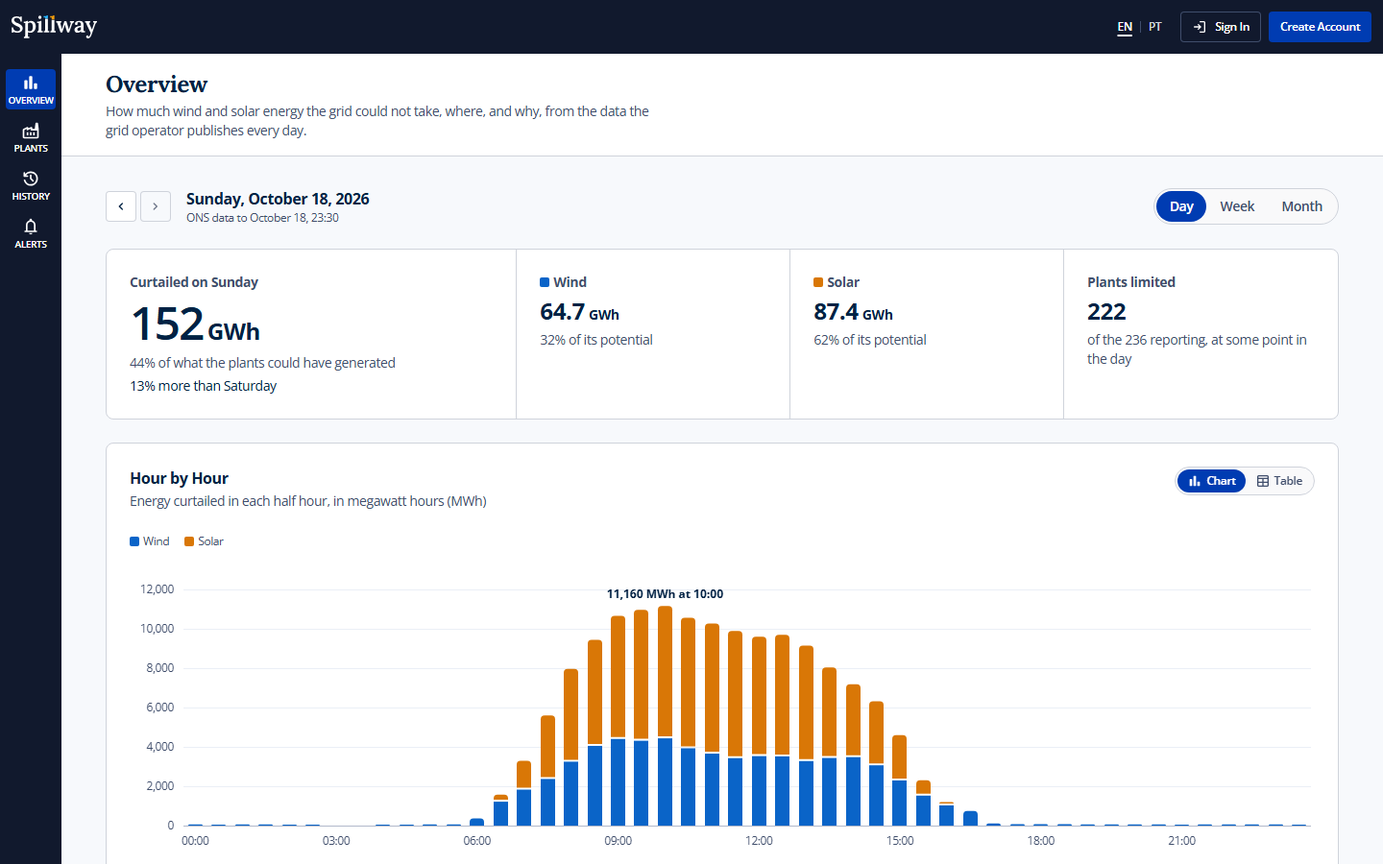
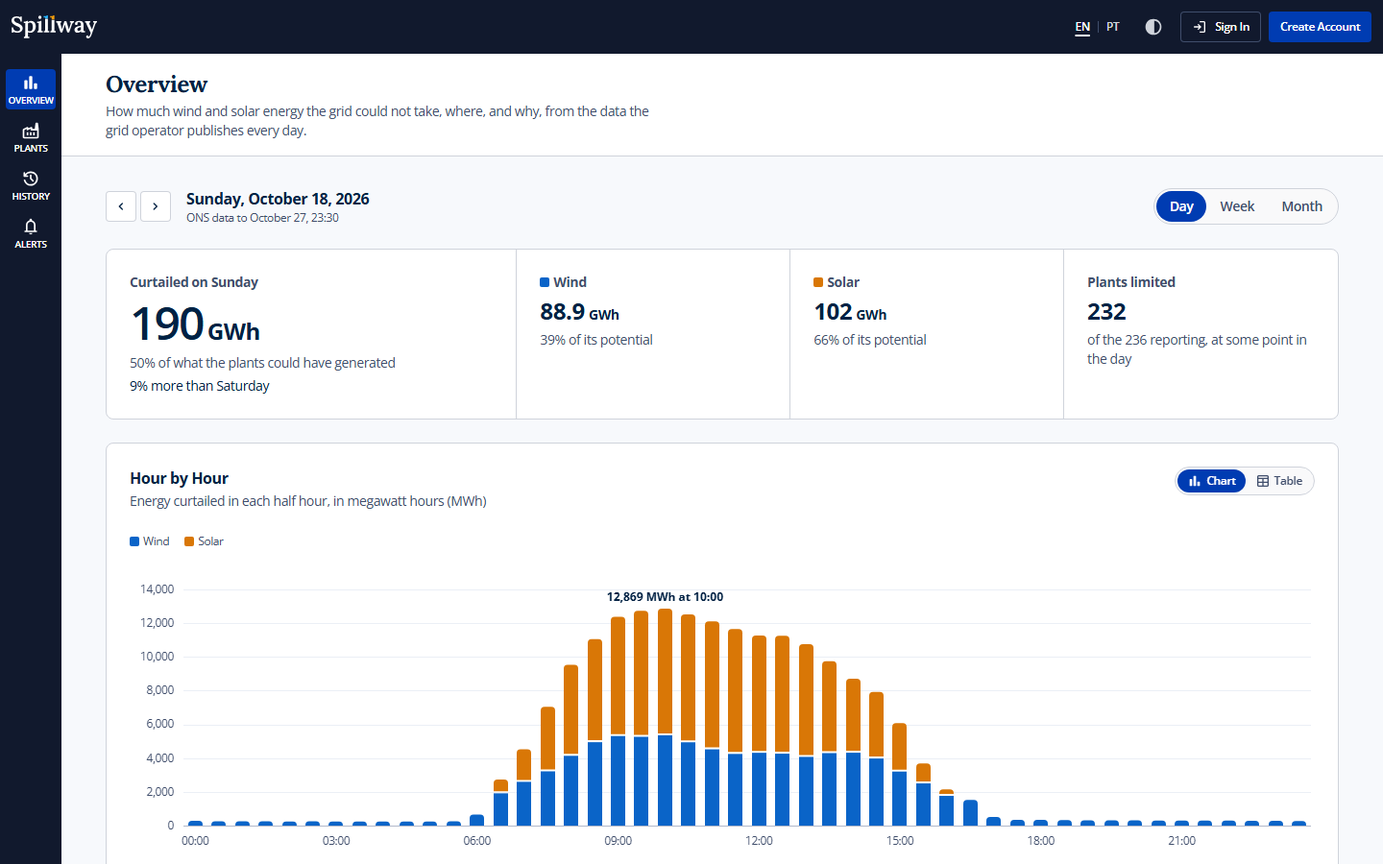
docs: record the dark theme and show it in the readme

diff --git a/e2e/screenshots.ts b/e2e/screenshots.ts
@@ -6,9 +6,11 @@ import { type Browser, chromium, expect, type Page } from '@playwright/test';
 /*
  * The README's screens, taken from the stack `docker compose up --wait --build`
  * started, once the sync has loaded the ONS's files: `pnpm run screenshots`,
- * or `pnpm run screenshots <name>…` for some. The data pages show the latest
- * day published; the alert pages are taken as Ana, an account of the script's
- * own at example.com, made the first time and given the same five alerts.
+ * or `pnpm run screenshots <name>…` for some. The data pages show DAY, its
+ * week or its month, and the history and the alerts the latest published; the
+ * alert pages are taken as Ana, an account of the script's own at example.com,
+ * made the first time and given the same five alerts. A screen in the dark
+ * theme asks for it as a device would, through System.
  */
 
 const base = process.env['E2E_BASE_URL'] ?? 'http://localhost:8090';
@@ -17,6 +19,14 @@ const out = fileURLToPath(new URL('../docs/screenshots/', import.meta.url));
 const LAPTOP = { width: 1440, height: 900 };
 const PHONE = { width: 390, height: 844 };
 const ANA = { email: 'ana@example.com', password: 'correct horse battery staple' };
+
+/**
+ * A Sunday when half of what the plants could have generated was curtailed: a
+ * full chart, and the same one, with the figures the README's descriptions
+ * give, each time the screens are taken, its month's once the month is all
+ * published. Only a revision of the ONS's file moves them.
+ */
+const DAY = '2026-10-18';
 
 /** Where and what the grid curtails most, at thresholds that some days pass and most do not. */
 const ALERTS = [
@@ -32,11 +42,12 @@ const ALERTS = [
   { name: 'North wind', source: 'Wind', subsystem: 'North', threshold: '1500' },
 ] as const;
 
-async function open(browser: Browser, viewport = LAPTOP) {
+async function open(browser: Browser, viewport = LAPTOP, colorScheme: 'light' | 'dark' = 'light') {
   const context = await browser.newContext({
     baseURL: base,
     viewport,
     locale: 'en-US',
+    colorScheme,
     deviceScaleFactor: 1,
   });
   return { context, page: await context.newPage() };
@@ -94,6 +105,18 @@ async function alerts(page: Page, wanted: 'five' | 'none') {
   await page.reload(); // without the toast
 }
 
+/** The month by subsystem, a row pointed at so the map picks its region out. */
+async function where(page: Page) {
+  await page.goto(`/?period=month&date=${DAY}`);
+  const card = page.getByRole('region', { name: 'By Subsystem' });
+  // The card's top just under the sticky header.
+  await card.evaluate((el) => {
+    window.scrollBy(0, el.getBoundingClientRect().top - 80);
+  });
+  await settle(page);
+  await card.getByRole('link', { name: 'Southeast and Centre-West' }).hover();
+}
+
 /** Until the page holds still: fonts in, charts measured, animations done, the pointer away. */
 async function settle(page: Page, pointer = true) {
   if (pointer) {
@@ -109,19 +132,19 @@ async function settle(page: Page, pointer = true) {
 const screens: Record<string, (browser: Browser) => Promise<Page>> = {
   async overview(browser) {
     const { page } = await open(browser);
-    await page.goto('/');
+    await page.goto(`/?date=${DAY}`);
     return page;
   },
 
   async 'overview-month'(browser) {
     const { page } = await open(browser);
-    await page.goto('/?period=month');
+    await page.goto(`/?period=month&date=${DAY}`);
     return page;
   },
 
   async 'overview-tooltip'(browser) {
     const { page } = await open(browser);
-    await page.goto('/');
+    await page.goto(`/?date=${DAY}`);
     const chart = page.getByRole('img', { name: /^Energy curtailed in each half hour/ });
     await chart.scrollIntoViewIfNeeded();
     await settle(page);
@@ -134,33 +157,45 @@ const screens: Record<string, (browser: Browser) => Promise<Page>> = {
 
   async 'overview-where'(browser) {
     const { page } = await open(browser);
-    await page.goto('/?period=month');
-    const card = page.getByRole('region', { name: 'By Subsystem' });
-    // The card's top just under the sticky header.
-    await card.evaluate((el) => {
-      window.scrollBy(0, el.getBoundingClientRect().top - 80);
-    });
-    await settle(page);
-    // A row pointed at, so the map picks its region out.
-    await card.getByRole('link', { name: 'Southeast and Centre-West' }).hover();
+    await where(page);
     return page;
   },
 
   async 'overview-pt'(browser) {
     const { page } = await open(browser);
-    await page.goto('/pt-br');
+    await page.goto(`/pt-br?date=${DAY}`);
+    return page;
+  },
+
+  async 'overview-dark'(browser) {
+    const { page } = await open(browser, LAPTOP, 'dark');
+    await page.goto(`/?date=${DAY}`);
+    return page;
+  },
+
+  async 'overview-where-dark'(browser) {
+    const { page } = await open(browser, LAPTOP, 'dark');
+    await where(page);
+    return page;
+  },
+
+  async 'theme-menu'(browser) {
+    const { page } = await open(browser);
+    await page.goto(`/?date=${DAY}`);
+    await page.getByRole('button', { name: 'Theme: System' }).click();
+    await expect(page.getByRole('group', { name: 'Theme' })).toBeVisible();
     return page;
   },
 
   async 'overview-phone'(browser) {
     const { page } = await open(browser, PHONE);
-    await page.goto('/');
+    await page.goto(`/?date=${DAY}`);
     return page;
   },
 
   async plants(browser) {
     const { page } = await open(browser);
-    await page.goto('/plants?period=week');
+    await page.goto(`/plants?period=week&date=${DAY}`);
     return page;
   },
 
@@ -248,7 +283,10 @@ try {
     if (names.length > 0 && !names.includes(name)) continue;
     const page = await take(browser);
     // The tooltip and the map shots keep the pointer where they put it.
-    await settle(page, !['overview-tooltip', 'overview-where'].includes(name));
+    await settle(
+      page,
+      !['overview-tooltip', 'overview-where', 'overview-where-dark'].includes(name),
+    );
     await page.screenshot({ path: `${out}${name}.png` });
     await page.context().close();
     console.log(`docs/screenshots/${name}.png`);

diff --git a/README.md b/README.md
@@ -2,22 +2,22 @@
 
 Alerts on the wind and solar energy Brazil's grid operator keeps from being generated, built for [the ONS's open curtailment data](https://dados.ons.org.br).
 
-Spillway reads the ONS's files every hour and shows what was curtailed: a day, a week or a month against the one before, the plants that lost the most, and every month since the data begins. An account keeps up to twenty alerts, each a daily limit on one source in one subsystem: tell me when more than 150,000 MWh of Northeast wind goes unused in a day. Before an alert is saved, a chart shows the days of the last thirty it would have fired on. Every page is in English and, under `/pt-br`, in Brazilian Portuguese.
+Spillway reads the ONS's files every hour and shows what was curtailed: a day, a week or a month against the one before, the plants that lost the most, and every month since the data begins. An account keeps up to twenty alerts, each a daily limit on one source in one subsystem: tell me when more than 150,000 MWh of Northeast wind goes unused in a day. Before an alert is saved, a chart shows the days of the last thirty it would have fired on. Every page is in English and, under `/pt-br`, in Brazilian Portuguese, in a light theme or a dark one: the device's, unless the reader picks.
 
 SvelteKit 3 and Svelte 5 in front, a Go 1.27 API behind it, Postgres 18 behind that, and an OpenAPI 3.1 contract between the two servers that both are generated from.
 
-![The overview of Sunday, October 18, 2026: 152 GWh curtailed, 44% of what the plants could have generated, 64.7 GWh of wind and 87.4 GWh of solar, and a column per half hour, wind and solar stacked, peaking at 11,160 MWh at 10:00, with a switch to see it as a table](docs/screenshots/overview.png)
+![The overview of Sunday, October 18, 2026: 190 GWh curtailed, 50% of what the plants could have generated, 88.9 GWh of wind and 102 GWh of solar, and a column per half hour, wind and solar stacked, peaking at 12,869 MWh at 10:00, with a switch to see it as a table](docs/screenshots/overview.png)
 
 <details>
 <summary>More screens</summary>
 
 **A half hour, pointed at**
 
-![The same day's chart with a tooltip on 12:30 to 13:00: 3,518 MWh of wind, 6,177 MWh of solar, 9,696 MWh in all](docs/screenshots/overview-tooltip.png)
+![The same day's chart with a tooltip on 12:30 to 13:00: 4,262 MWh of wind, 6,997 MWh of solar, 11,259 MWh in all](docs/screenshots/overview-tooltip.png)
 
 **A month so far**
 
-![October 2026 up to the 18th: 2,524 GWh curtailed, 17% less than September 1 to 18, a column per day, and the days to come marked as not published yet](docs/screenshots/overview-month.png)
+![October 2026 up to the 27th: 3,656 GWh curtailed, 25% less than September 1 to 27, a column per day, and the days to come marked as not published yet](docs/screenshots/overview-month.png)
 
 **Where, and why**
 
@@ -37,7 +37,7 @@ SvelteKit 3 and Svelte 5 in front, a Go 1.27 API behind it, Postgres 18 behind t
 
 **A new alert, against the last 30 days**
 
-![The new alert form for Northeast wind at 150,000 MWh, beside a column per day of the last 30 with a dashed line at the threshold, the days over it in blue, and a line saying it would have fired on 5 of them](docs/screenshots/alert-preview.png)
+![The new alert form for Northeast wind at 150,000 MWh, beside a column per day of the last 30 with a dashed line at the threshold, the days over it in blue, and a line saying it would have fired on 2 of them](docs/screenshots/alert-preview.png)
 
 **A form refused, with or without JavaScript**
 
@@ -59,13 +59,23 @@ SvelteKit 3 and Svelte 5 in front, a Go 1.27 API behind it, Postgres 18 behind t
 
 **In Portuguese**
 
-![The overview in Portuguese, under /pt-br: Domingo, 18 de outubro de 2026, 152 GWh curtailed, 64,7 GWh of wind and 87,4 GWh of solar with a decimal comma, the navigation as Visão geral, Usinas, Histórico and Alertas, and EN | PT in the header with PT underlined](docs/screenshots/overview-pt.png)
+![The overview in Portuguese, under /pt-br: Domingo, 18 de outubro de 2026, 190 GWh curtailed, 88,9 GWh of wind and 102 GWh of solar with a decimal comma, the navigation as Visão geral, Usinas, Histórico and Alertas, and EN | PT in the header with PT underlined](docs/screenshots/overview-pt.png)
+
+**In the dark**
+
+![The same day in the dark theme: the navy of the header deepened, the canvas a step lighter and the cards a step lighter again, and wind and solar a step brighter, each clearing 3:1 on its card](docs/screenshots/overview-dark.png)
+
+![The month by subsystem in the dark theme, where the map shades the most curtailed lightest, so the Northeast stands out from the dark card as it does darkest on the light one](docs/screenshots/overview-where-dark.png)
+
+**The theme, picked in the header**
+
+![The theme menu open under its button, next to EN | PT: Light, Dark and System, each beside a scrap of the app in its colours, System chosen and saying it gives the light theme on this device](docs/screenshots/theme-menu.png)
 
 **A sign-in refused**
 
 ![The sign-in card saying the email address or password is wrong, inside the card above the fields, the address kept, the password cleared beside its show button, and the way to create an account centred under the card](docs/screenshots/sign-in-refused.png)
 
-Regenerate with `pnpm run screenshots`, against the stack `docker compose up --wait --build` started, or with `pnpm run screenshots <name>` for one screen. They show the latest day the ONS has published, and the alerts are taken as an account of the script's own, `ana@example.com`, whose alerts it replaces each time.
+Regenerate with `pnpm run screenshots`, against the stack `docker compose up --wait --build` started, or with `pnpm run screenshots <name>` for one screen. They show October 18, 2026, its week and its month, so the figures above stay true each time they are taken, the month's once the ONS has published all of October, and the history and the alerts as of the latest day published; the alerts are taken as an account of the script's own, `ana@example.com`, whose alerts it replaces each time.
 
 </details>
 
@@ -129,7 +139,8 @@ The ONS publishes it on its open data portal under CC-BY, plant by plant in half
 - **Twenty alerts means twenty.** Creating one locks the account's row, counts and inserts in one transaction, and a test fires forty creates at once at a real Postgres to prove only twenty land ([ADR 0008](docs/adr/0008-the-alert-limit-is-held-by-the-database.md)).
 - **Every form works without JavaScript.** Each is a plain form with a server action, enhanced when the script runs; a refused form comes back with what was typed, and an accepted one redirects, so a reload never posts it twice ([ADR 0010](docs/adr/0010-every-form-works-without-javascript.md)).
 - **Account forms that check as you go.** Sign-in and sign-up share one form: the browser checks a field when it is left, with the rules the contract already put on it, and a form it can tell is wrong is not sent; focus goes to the first field to fix, and a password can be shown ([ADR 0027](docs/adr/0027-sign-in-and-sign-up-check-each-field-as-it-is-left.md)).
-- **A dense look, accessible first.** Dark chrome, white panels, compact controls and tables, from tokens in Tailwind 4; every label visible, native selects and radios, one focus ring, an error summary that takes focus ([ADR 0009](docs/adr/0009-a-dense-dashboard-look-accessibility-first.md)), and toasts that leave on their own but never while pointed at or focused ([ADR 0023](docs/adr/0023-toasts-under-the-page-header-leave-on-their-own.md)).
+- **A dense look, accessible first.** Dark chrome, white panels, or navy ones in the dark, compact controls and tables, from tokens in Tailwind 4; every label visible, native selects and radios, one focus ring, an error summary that takes focus ([ADR 0009](docs/adr/0009-a-dense-dashboard-look-accessibility-first.md)), and toasts that leave on their own but never while pointed at or focused ([ADR 0023](docs/adr/0023-toasts-under-the-page-header-leave-on-their-own.md)).
+- **Two themes, right from the first byte.** Each colour token holds its light and its dark value side by side, in `light-dark()`, so a theme is only the `color-scheme` the page declares, and a test fails when a component paints with a raw colour. The menu in the header keeps Light, Dark or System in a cookie the server reads, so a page arrives in its theme with no script to prevent a flash, and the menu works without JavaScript too ([ADR 0030](docs/adr/0030-a-dark-theme-kept-in-a-cookie-the-server-reads.md)).
 - **The ONS's files, synced on their own.** A second process from the same binary lists the ONS's bucket every hour, loads each new or revised month by its ETag, the latest first, and replaces it whole in one transaction. The pages read the sums it keeps, never the files ([ADR 0020](docs/adr/0020-the-ons-data-is-synced-by-a-process-of-its-own.md)).
 - **Firings read from the data.** An alert's firings are a query over the daily sums, not rows of their own, so a revised day revises them too ([ADR 0021](docs/adr/0021-firings-are-read-from-the-data.md)).
 - **Charts in our own SVG.** Columns, bars and lines are Svelte components on d3-scale, drawn on the server with no style attribute for the content security policy to refuse ([ADR 0022](docs/adr/0022-charts-drawn-in-our-own-svg.md)), and a switch in each card's header shows the chart's figures as a table in its place, with radio buttons and CSS, so it works without JavaScript ([ADR 0025](docs/adr/0025-a-chart-or-its-table-by-a-switch.md)).
@@ -153,7 +164,7 @@ go test -race ./...                                              # the API's uni
 go test -race -tags integration ./internal/adapter/postgres/...  # against a real Postgres 18
 ```
 
-The domain and the use cases are tested in memory, against fakes of their own interfaces, and the Postgres adapter against a real Postgres 18, forty creates at once for one account included, and a month loaded, read, revised and read again. The ONS adapter reads a Parquet file its test writes, from a test server that answers like the bucket. Vitest runs the components in Chromium. Playwright waits for the sync to load every month, then drives the whole stack as a visitor would: every state of every page audited by axe against WCAG 2.2 AA, no console error allowed, a content security policy report included, and every internal link followed.
+The domain and the use cases are tested in memory, against fakes of their own interfaces, and the Postgres adapter against a real Postgres 18, forty creates at once for one account included, and a month loaded, read, revised and read again. The ONS adapter reads a Parquet file its test writes, from a test server that answers like the bucket. Vitest runs the components in Chromium. Playwright waits for the sync to load every month, then drives the whole stack as a visitor would: every state of every page audited by axe against WCAG 2.2 AA, in the light theme and in the dark one, no console error allowed, a content security policy report included, and every internal link followed.
 
 CI runs the same, and golangci-lint with the layer rules, govulncheck, a check that generated code matches its sources, and oasdiff against the previous commit's contract. Then it builds the stack with compose and runs the browser checks against it. actionlint and zizmor check the workflow itself, for mistakes and for the ways a workflow leaks its token ([ADR 0029](docs/adr/0029-the-workflow-is-audited-too.md)).
 

diff --git a/docs/adr/0030-a-dark-theme-kept-in-a-cookie-the-server-reads.md b/docs/adr/0030-a-dark-theme-kept-in-a-cookie-the-server-reads.md
@@ -1,0 +1,37 @@
+# 30. A dark theme, kept in a cookie the server reads
+
+- Status: accepted, giving the look of [ADR 0009](0009-a-dense-dashboard-look-accessibility-first.md) a dark theme
+- Date: 2026-10-28
+
+## Context
+
+Spillway was light only: dark chrome around white panels (ADR 0009). Many of the people it is for set their devices to dark, at work and at night. A theme touches every colour, so it has to be cheap to keep right: a component painting a colour of its own would stay light in the dark, and nothing would say so. It also has to keep the app's other rules: every page rendered on the server, a content security policy that lets in no inline script, and every form working without JavaScript (ADR 0010).
+
+## Decision
+
+- **Every colour role holds both its colours, side by side, in `light-dark()`**, as `--color-surface-canvas: light-dark(cool-grey-25, cool-grey-500)` does. A theme is then only the `color-scheme` `<html>` declares: `light dark` follows the device, `light` or `dark` is a choice. The primitives keep one value each. A role that is the same in both themes, as what sits on the navy chrome is, is named in `src/tokens.spec.ts`, which fails on a role with one colour that is not on its list, and on a component that paints with a primitive or with a colour written out.
+- **The dark palette is the light one's navy, deepened**, as Larder's dark theme is: the chrome deepest, `#0a1020`, then the canvas, `#11192d`, then the cards, `#18223a`, each lighter as it comes nearer. Wind and solar go a step brighter, `#3f8ff0` and `#e08a1f`, to clear 3:1 on a dark card, and the map's steps turn round, so the most curtailed region is the lightest, as it is the darkest on white. Every text clears 4.5:1 on its ground, links `#5cc2ff`, errors `#f47070` and the grey of what is disabled, `#8890a3`, included, and axe checks each page in both themes.
+- **The choice is a cookie the server reads**, `spillway-theme`, holding `light` or `dark`; no cookie is System. A server hook writes `data-theme` on `<html>` before the page leaves, and the layout's `color-scheme` and `theme-color` follow, so a page is drawn in its theme from the first byte: no flash of the other one, and no inline script in the head to prevent it, which the content security policy would have to let in by its hash. Every page is rendered per request and none is cached; a cache put in front would have to vary by the cookie.
+- **Light, Dark or System, from a menu in the header**, beside EN | PT, as in Faultline. It is a native popover anchored to its button: it opens, closes on Escape or a click outside, and comes after its button in the tab order, all without a script. Each choice is a submit button of one form, which posts to `/theme`; its action sets the cookie, HTTP-only, for 400 days, and redirects back. Without JavaScript the page comes back in the theme picked. With it, `use:enhance` sends the same post and the redirect is not followed: the menu hands the theme to the root layout, which puts it on `<html>` at once, with every transition held for that frame, and puts back the one before if the post is refused or lost. The layout's is the one copy in the browser, so data loaded again, which brings the cookie another tab may have changed, moves `<html>`, the menu and the bar together.
+- **Each choice shows a scrap of the app in its colours**, and System says which theme the device gives now. That line is CSS, a media query, so it is right without a script and when the device changes; a screen reader hears that System follows the device.
+- **The browser's bar on a phone takes the header's navy** (`theme-color`), one per scheme for System.
+- **A browser without popovers, Safari before 17 or Chrome before 114, shows neither the menu nor its button**, and the page follows the device.
+- **The focus ring in the header and the rail is the dark theme's in both**: they are navy in both themes, and the light theme's blue had 1.9:1 on them, short of the 3:1 a focus indicator needs.
+
+## Consequences
+
+- A new colour is a role with two values, or a role with one and a reason in the test's list.
+- The build resolves the roles on `<html>`. Tailwind 4.3.3 and Vite 8.3.4 run Lightning CSS for the browsers Tailwind supports, from Safari 16.4 and Chrome 111, older than `light-dark()`, and it turns each one into a pair of variables that the `color-scheme` rules in `app.css` switch, at the root. So only the whole page changes theme: a part of it cannot be drawn in the other theme by setting its `color-scheme`, which is why the menu's scraps name their primitives.
+- Every request carries the cookie, and a cache in front would need `Vary: Cookie`.
+- Picking a theme is a request that only stores it, and one refused or lost, offline or from another origin, takes the theme back.
+- The end-to-end suite runs axe twice for every state it audits.
+
+## Alternatives considered
+
+- **localStorage and an inline script in the head, as Larder does:** no request, but the server renders the default and the script has to run before the first paint; here the content security policy would have to let it in, and a reader without JavaScript could not choose.
+- **The cookie written by a script, as Faultline does:** at once and offline, but two writers of one cookie to keep agreeing, and a cookie every script can read.
+- **The device's scheme alone, with no choice:** a reader who wants light on a dark device cannot have it.
+- **A toggle between two themes, the moon and sun of Larder's rail:** one click, and no way back to following the device once pressed.
+- **`dark:` variants in each component:** the dark colour of a role written at every use, not once, and a missed one found only by looking. `dark:` stays, redefined to follow the theme picked rather than the device alone, so a utility under it cannot disagree with the tokens.
+- **A block redefining every role under `[data-theme=dark]`, and the same block again in `@media (prefers-color-scheme: dark)` for System:** no transform needed in any browser, for every dark value written twice.
+- **A neutral grey for the dark pages, with the navy chrome kept:** shown beside this palette in the screenshots, a navy frame around a page of another colour; the navy was chosen.

diff --git a/docs/architecture.md b/docs/architecture.md
@@ -52,10 +52,10 @@ spillway/
 ├── apps/web/                   SvelteKit 3: the pages
 │   ├── src/
 │   │   ├── hooks.ts            takes /pt-br off an address before routing (ADR 0026)
-│   │   ├── hooks.server.ts     request id, the edition, security headers, the session on every request
+│   │   ├── hooks.server.ts     request id, the edition, the theme, security headers, the session
 │   │   ├── env.ts              API_URL, checked when the server starts
-│   │   ├── app.css             the design system's tokens and type styles
-│   │   ├── routes/             the overview (/), plants, history, alerts and a new one, signing in and out
+│   │   ├── app.css             the design system's tokens, each colour in both themes, and type styles
+│   │   ├── routes/             the overview (/), plants, history, alerts and a new one, signing in and out, the theme
 │   │   └── lib/
 │   │       ├── api/generated/  Hey API's types, client and Zod schemas: not edited by hand
 │   │       ├── server/         server only: the API client, session and flash cookies, form readers
@@ -100,7 +100,7 @@ Someone fills in the form on `/alerts` and presses Create Alert.
 | Step | Where | What happens |
 | --- | --- | --- |
 | 1 | `routes/alerts/+page.svelte` | A `<form method="POST" action="?/create">`, which posts without JavaScript. With it, `enhanceForm` blocks a second submit and shows the pending state. |
-| 2 | `hooks.server.ts` | The request gets an id, and the edition its address names: `/pt-br/alerts` is the same route in Portuguese, and every message and link the request renders follows it. The session cookie becomes `locals.session` after the API confirms it (`GET /v1/sessions/current`), and its deadline moves forward. |
+| 2 | `hooks.server.ts` | The request gets an id, and the edition its address names: `/pt-br/alerts` is the same route in Portuguese, and every message and link the request renders follows it. The theme the reader picked, from its cookie, goes on `<html>` as `data-theme` (ADR 0030). The session cookie becomes `locals.session` after the API confirms it (`GET /v1/sessions/current`), and its deadline moves forward. |
 | 3 | `routes/alerts/+page.server.ts` | The `create` action reads the form, and parses it with `zNewAlert`, generated from the contract. A broken rule answers 422 here, with the values as typed and an error per field, without calling the API. |
 | 4 | `lib/server/api.ts` | A client for this request alone: the bearer token, `X-Request-Id`, a five-second timeout. The answer is parsed with `zAlert` before anyone reads it. |
 | 5 | `httpapi/router.go` | Middleware, in order: request id, access log, panic recovery, API headers, origin check, body limit, deadline. |

diff --git a/docs/adr/0009-a-dense-dashboard-look-accessibility-first.md b/docs/adr/0009-a-dense-dashboard-look-accessibility-first.md
@@ -1,6 +1,6 @@
 # 9. A dense dashboard look, with accessibility first
 
-- Status: accepted; its icon choice replaced by [ADR 0019](0019-material-symbols-and-a-wordmark-drawn-from-the-data.md), its rule for toasts by [ADR 0023](0023-toasts-under-the-page-header-leave-on-their-own.md), and its error summary, on sign-in and sign-up, by [ADR 0027](0027-sign-in-and-sign-up-check-each-field-as-it-is-left.md)
+- Status: accepted; its icon choice replaced by [ADR 0019](0019-material-symbols-and-a-wordmark-drawn-from-the-data.md), its rule for toasts by [ADR 0023](0023-toasts-under-the-page-header-leave-on-their-own.md), its error summary, on sign-in and sign-up, by [ADR 0027](0027-sign-in-and-sign-up-check-each-field-as-it-is-left.md), and its palette given a dark theme by [ADR 0030](0030-a-dark-theme-kept-in-a-cookie-the-server-reads.md)
 - Date: 2026-10-17
 
 ## Context

diff --git a/AGENTS.md b/AGENTS.md
@@ -71,4 +71,4 @@ The configuration is read once, at start, and every bad value is reported togeth
 
 ## Design changes
 
-A new screen, or a visible change to one, starts as screenshots the owner approves, at a laptop's width and a phone's. Only then is it built, from the tokens in `app.css` and the components in `src/lib/components/ui`, and axe checks it in the end-to-end suite.
+A new screen, or a visible change to one, starts as screenshots the owner approves, at a laptop's width and a phone's, in the light theme and the dark one. Only then is it built, from the tokens in `app.css` and the components in `src/lib/components/ui`, and axe checks it in both themes in the end-to-end suite. A colour is a role with its light and its dark value side by side in `app.css`, never a primitive in a component, which `src/tokens.spec.ts` fails on (ADR 0030).

diff --git a/docs/adr/README.md b/docs/adr/README.md
@@ -33,3 +33,4 @@ One file per decision that had a trade-off, version pins included. Each says wha
 | [0027](0027-sign-in-and-sign-up-check-each-field-as-it-is-left.md) | Sign-in and sign-up check each field as it is left |
 | [0028](0028-web-vitals-measured-on-recorded-sums.md) | Web Vitals, measured on recorded sums |
 | [0029](0029-the-workflow-is-audited-too.md) | The workflow is audited too |
+| [0030](0030-a-dark-theme-kept-in-a-cookie-the-server-reads.md) | A dark theme, kept in a cookie the server reads |
